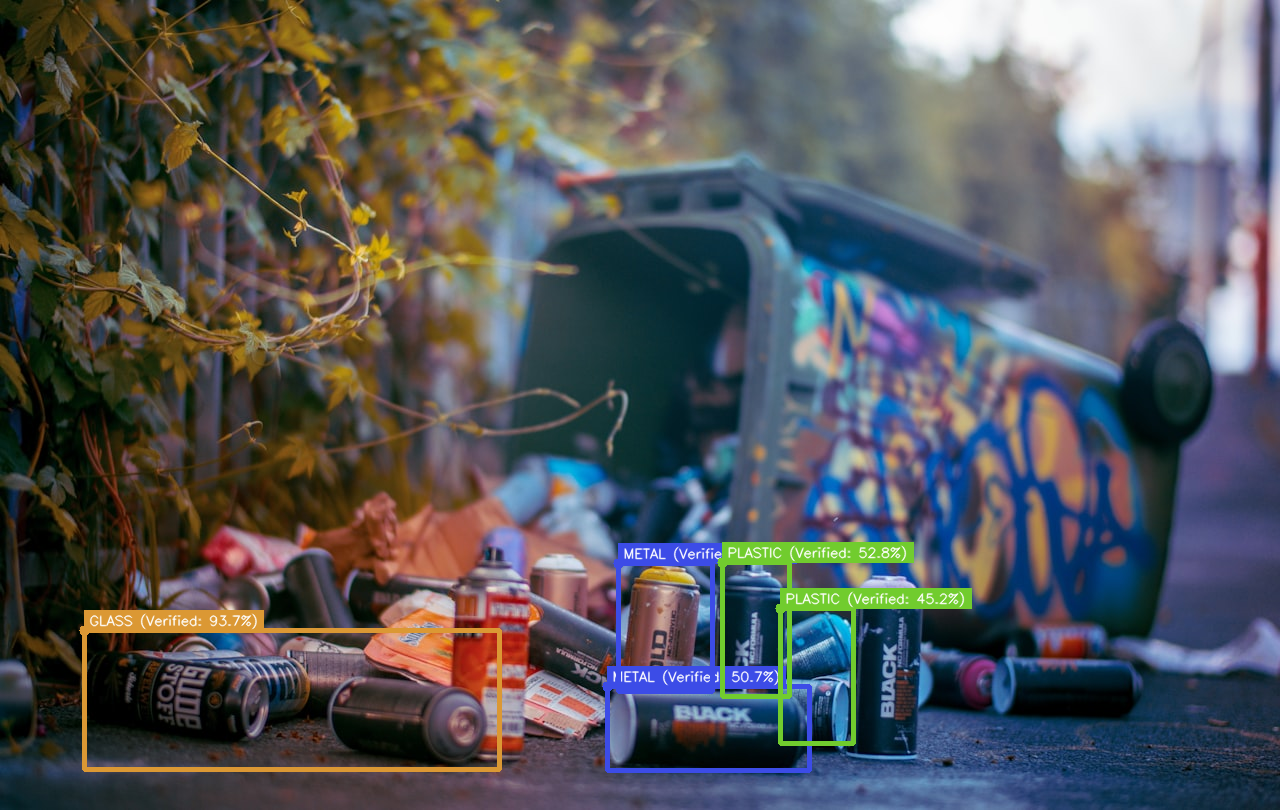
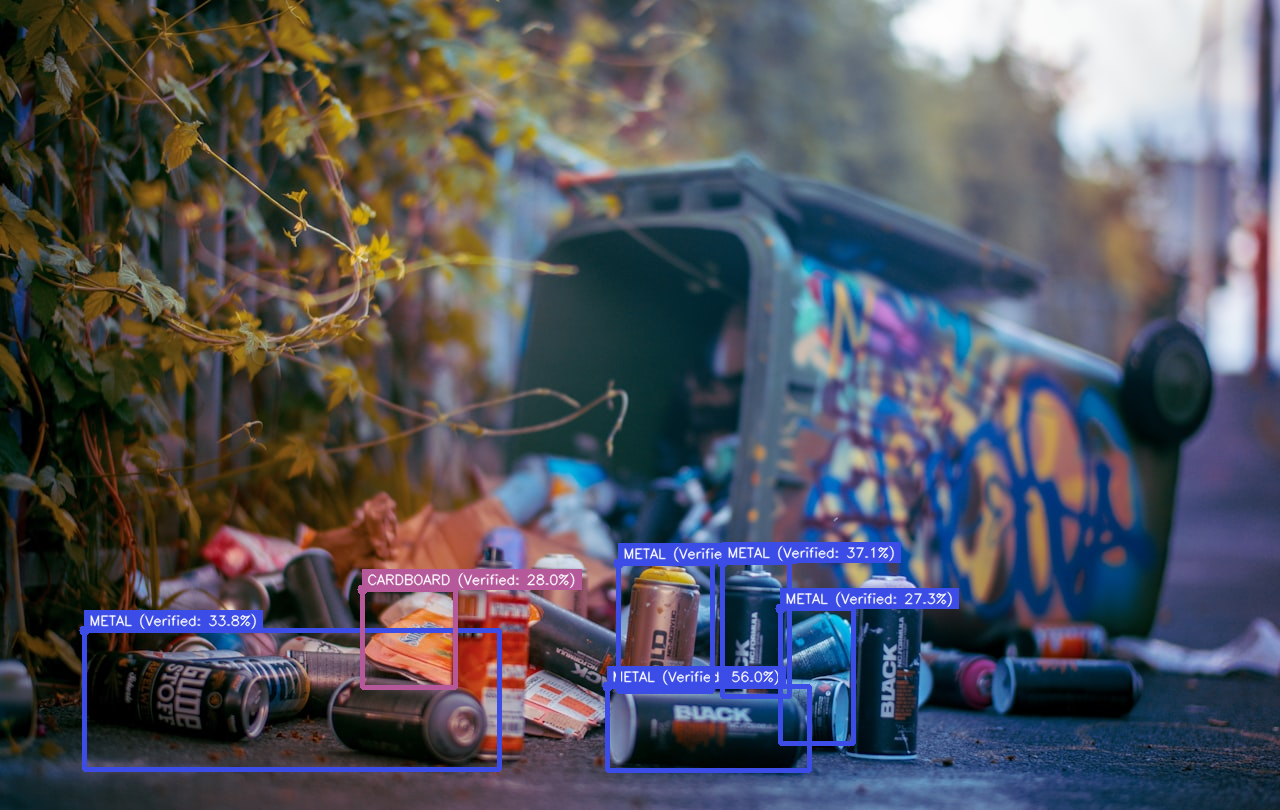
Implement Dynamic Class-Dependent Soft Voting and Consensus-Adaptive thresholding in hierarchical pipeline

Changed region(s): [[0.0625, 0.679, 0.4688, 0.9568], [0.5625, 0.6481, 0.7812, 0.9259]]

diff --git a/scripts/yolo_mobilenet_hierarchical_pipeline.py b/scripts/yolo_mobilenet_hierarchical_pipeline.py
@@ -217,28 +217,51 @@ def main():
         cnn_class = CNN_CLASSES[cnn_pred_idx]
         cnn_conf = cnn_probs[cnn_pred_idx]
         
-        yolo_str = f"{yolo_class.upper()} ({yolo_conf*100:.1f}%)"
-        cnn_str = f"{cnn_class.upper()} ({cnn_conf*100:.1f}%)"
+        # --- Stage 2 Dynamic Hierarchical Soft Voting (Prior Enforcer) ---
+        # Map YOLO's 6 classes to the CNN's 7-class indexing (Background has 0 probability from YOLO)
+        yolo_probs = np.zeros(7)
+        if yolo_class in CNN_CLASSES:
+            yidx = CNN_CLASSES.index(yolo_class)
+            yolo_probs[yidx] = yolo_conf
+            # Distribute remainder to other 5 core classes
+            other_indices = [i for i in range(6) if i != yidx]
+            for oi in other_indices:
+                yolo_probs[oi] = (1.0 - yolo_conf) / 5.0
+                
+        # Class-Dependent Voting Weight (Alpha)
+        # Put high weight on YOLO (0.80) when it proposes METAL to override CNN glares and sleeves
+        # For other classes, use low weight (0.20) so the CNN can correct YOLO's proposal errors
+        alpha = 0.80 if yolo_class == "metal" else 0.20
+        combined_probs = alpha * yolo_probs + (1.0 - alpha) * cnn_probs
         
-        # Decision logic:
-        # 1. If CNN predicts Background -> Filter out as false positive (Ghost Waste)
-        # 2. If CNN confidence is below threshold -> Filter out as unreliable detection
-        # 3. Otherwise -> Accept and use the unified decision
-        if cnn_class == "Background":
+        combined_pred_idx = np.argmax(combined_probs)
+        combined_class = CNN_CLASSES[combined_pred_idx]
+        combined_conf = combined_probs[combined_pred_idx]
+        
+        yolo_str = f"{yolo_class.upper()} ({yolo_conf*100:.1f}%)"
+        cnn_str = f"{combined_class.upper()} ({combined_conf*100:.1f}%)"
+        
+        # Multi-stage consensus rule:
+        # If both stages agree (consensus), we trust the combined prediction at a lower threshold (0.25).
+        # If they disagree (correction), we require the standard threshold (args.cnn_conf) for validation.
+        is_consensus = (combined_class == yolo_class)
+        current_threshold = 0.25 if is_consensus else args.cnn_conf
+        
+        if combined_class == "Background":
             decision = "REJECTED (Ghost Waste Background)"
-        elif cnn_conf < args.cnn_conf:
-            decision = f"REJECTED (CNN Conf {cnn_conf*100:.1f}% < {args.cnn_conf*100:.0f}%)"
+        elif combined_conf < current_threshold:
+            decision = f"REJECTED (Conf {combined_conf*100:.1f}% < {current_threshold*100:.0f}%)"
         else:
             decision = "ACCEPTED & VERIFIED ✅"
             valid_detections += 1
             
             # Draw premium bounding box
-            color = CLASS_COLORS.get(cnn_class, (0, 255, 0))
+            color = CLASS_COLORS.get(combined_class, (0, 255, 0))
             cv2.rectangle(annotated_frame, (x1, y1), (x2, y2), color, 3)
             cv2.circle(annotated_frame, (x1, y1), 5, color, cv2.FILLED)
             
             # Draw text label card
-            label_text = f"{cnn_class.upper()} (Verified: {cnn_conf*100:.1f}%)"
+            label_text = f"{combined_class.upper()} (Verified: {combined_conf*100:.1f}%)"
             (text_w, text_h), baseline = cv2.getTextSize(label_text, cv2.FONT_HERSHEY_SIMPLEX, 0.45, 1)
             cv2.rectangle(
                 annotated_frame, 